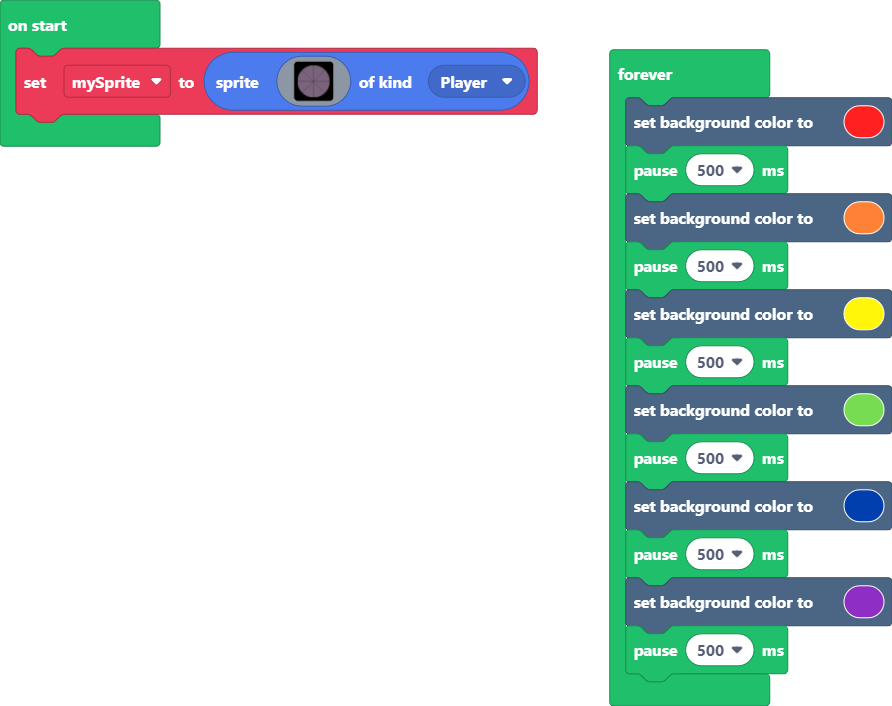
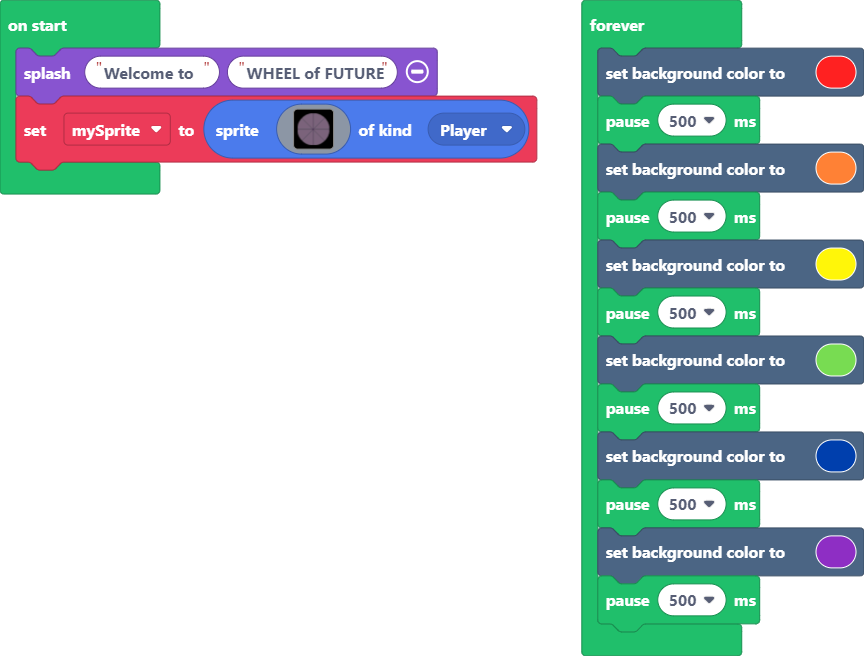
Update main.blocks, main.ts

diff --git a/main.ts b/main.ts
@@ -1,3 +1,4 @@
+game.splash("Welcome to ", "WHEEL of FUTURE")
 let mySprite = sprites.create(img`
     ................................................................................................
     ......................................bbbbbbbbbcbbbbbbbbb.......................................
